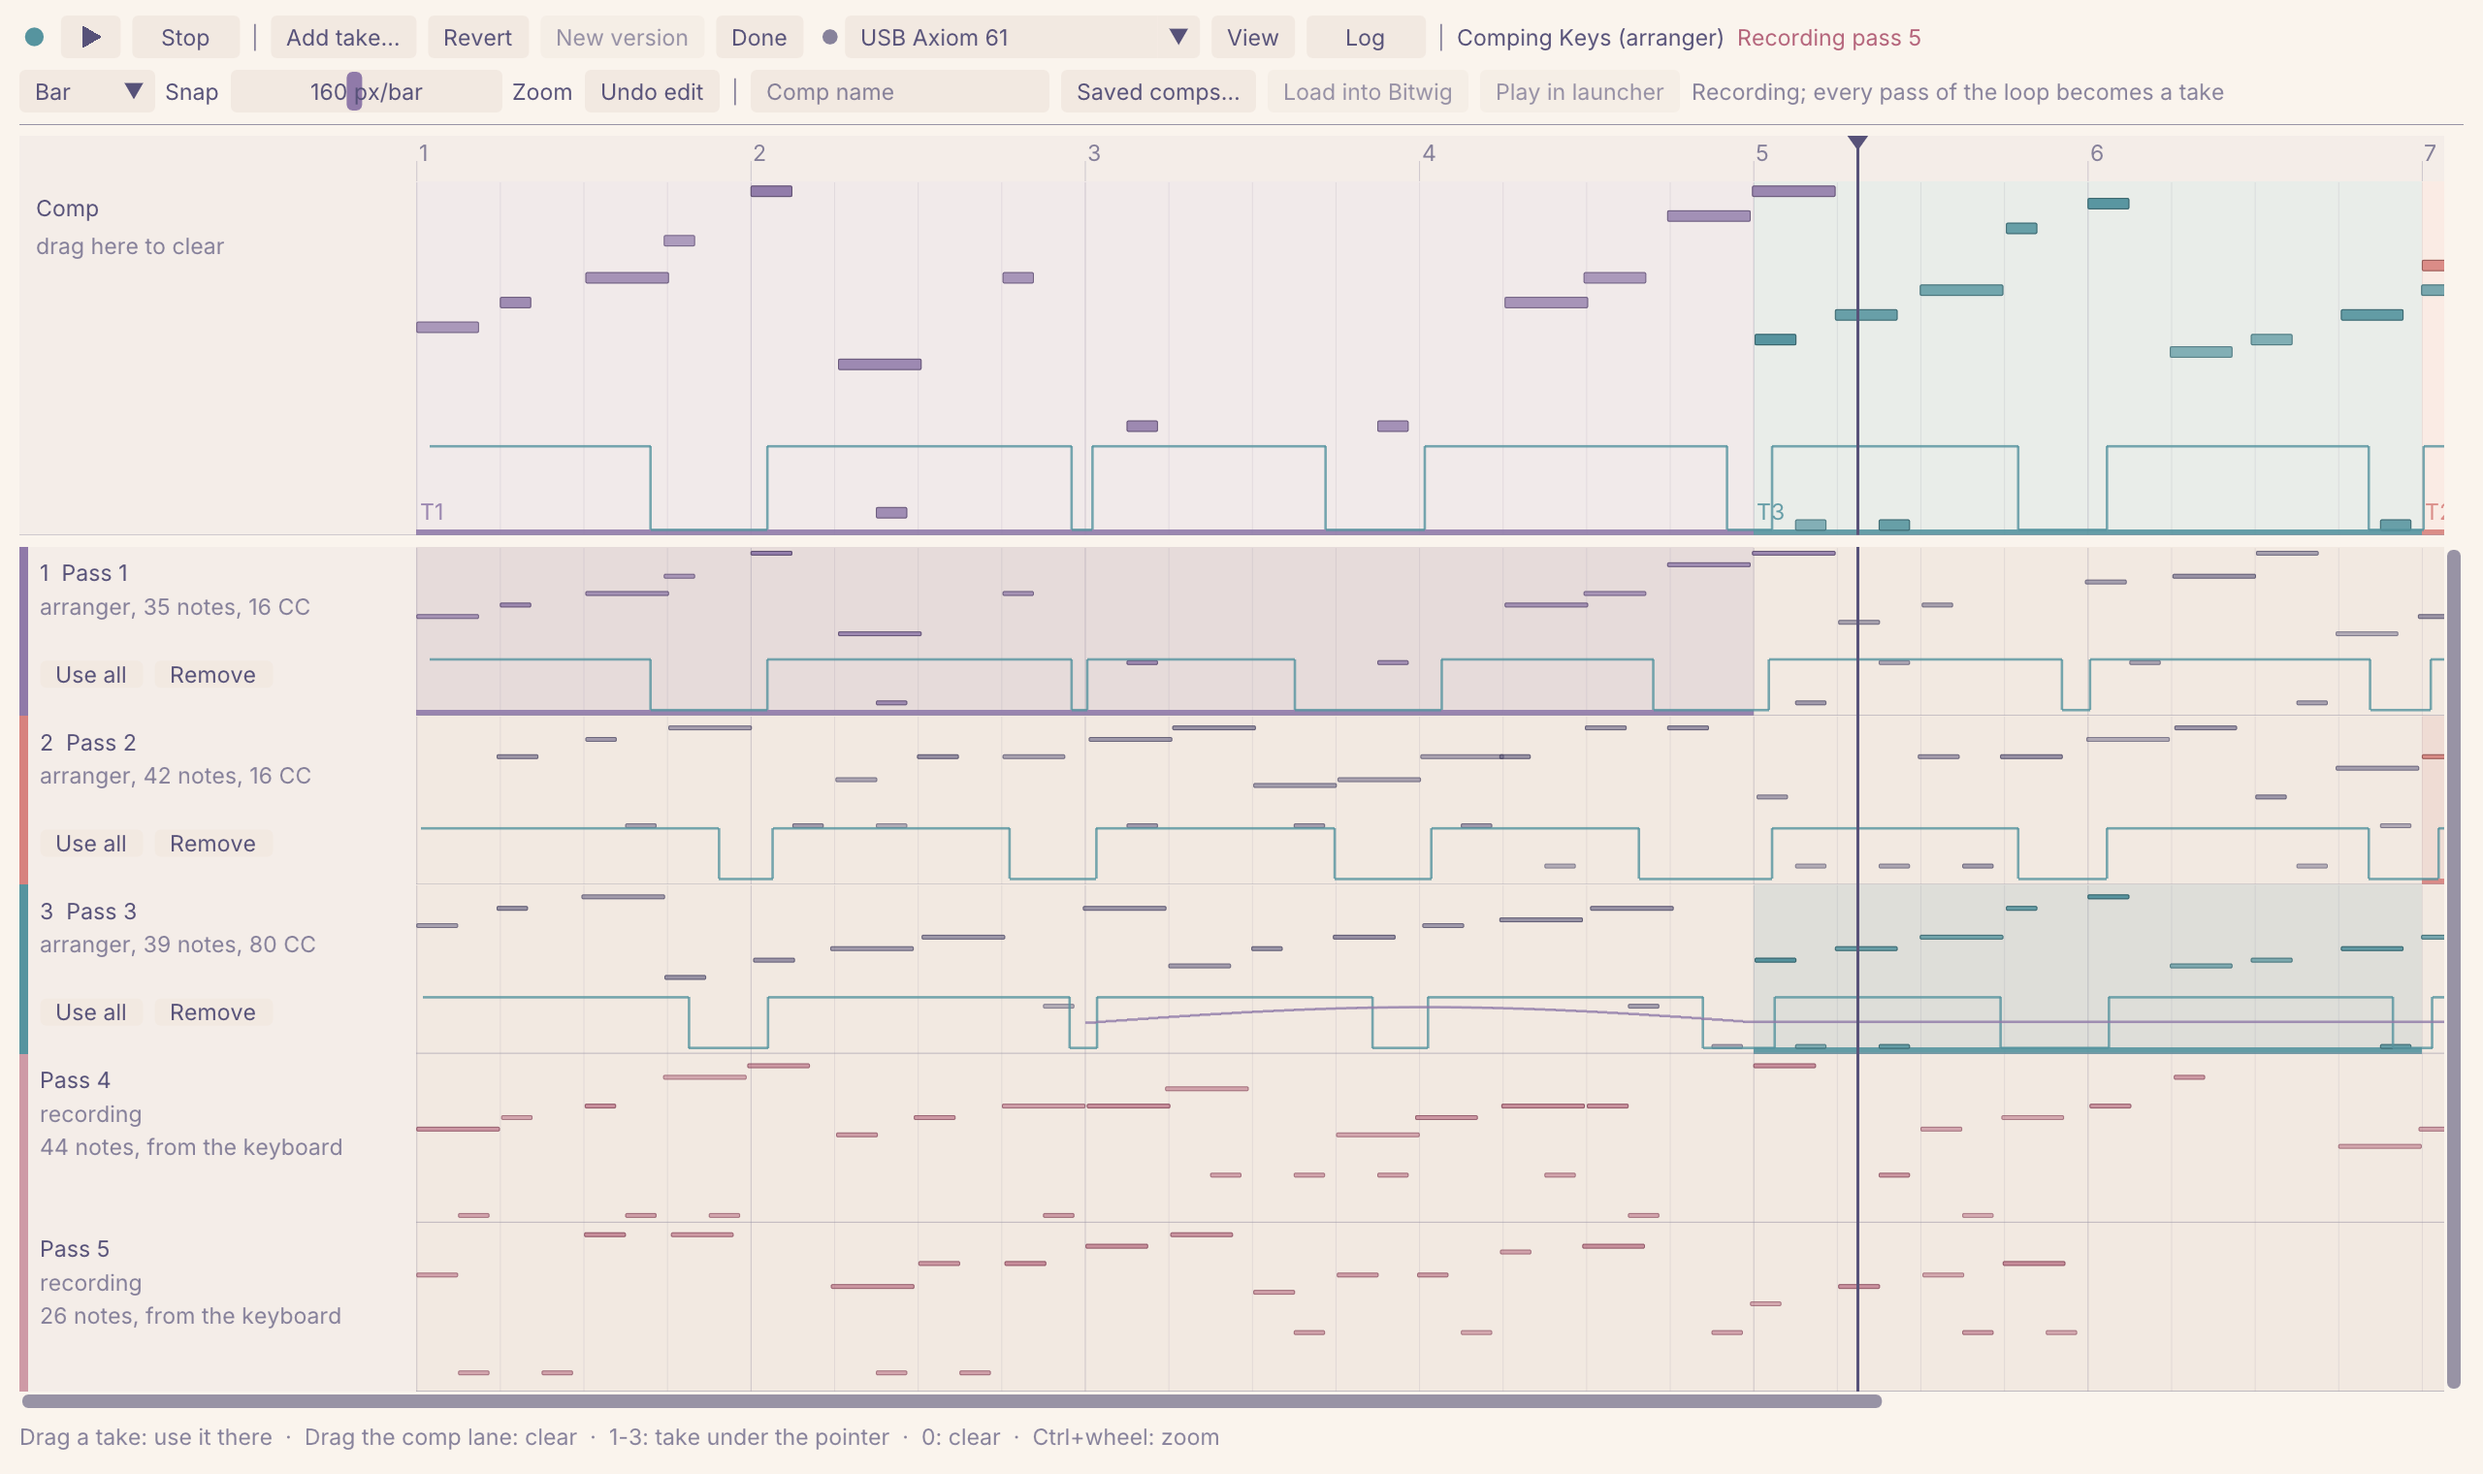
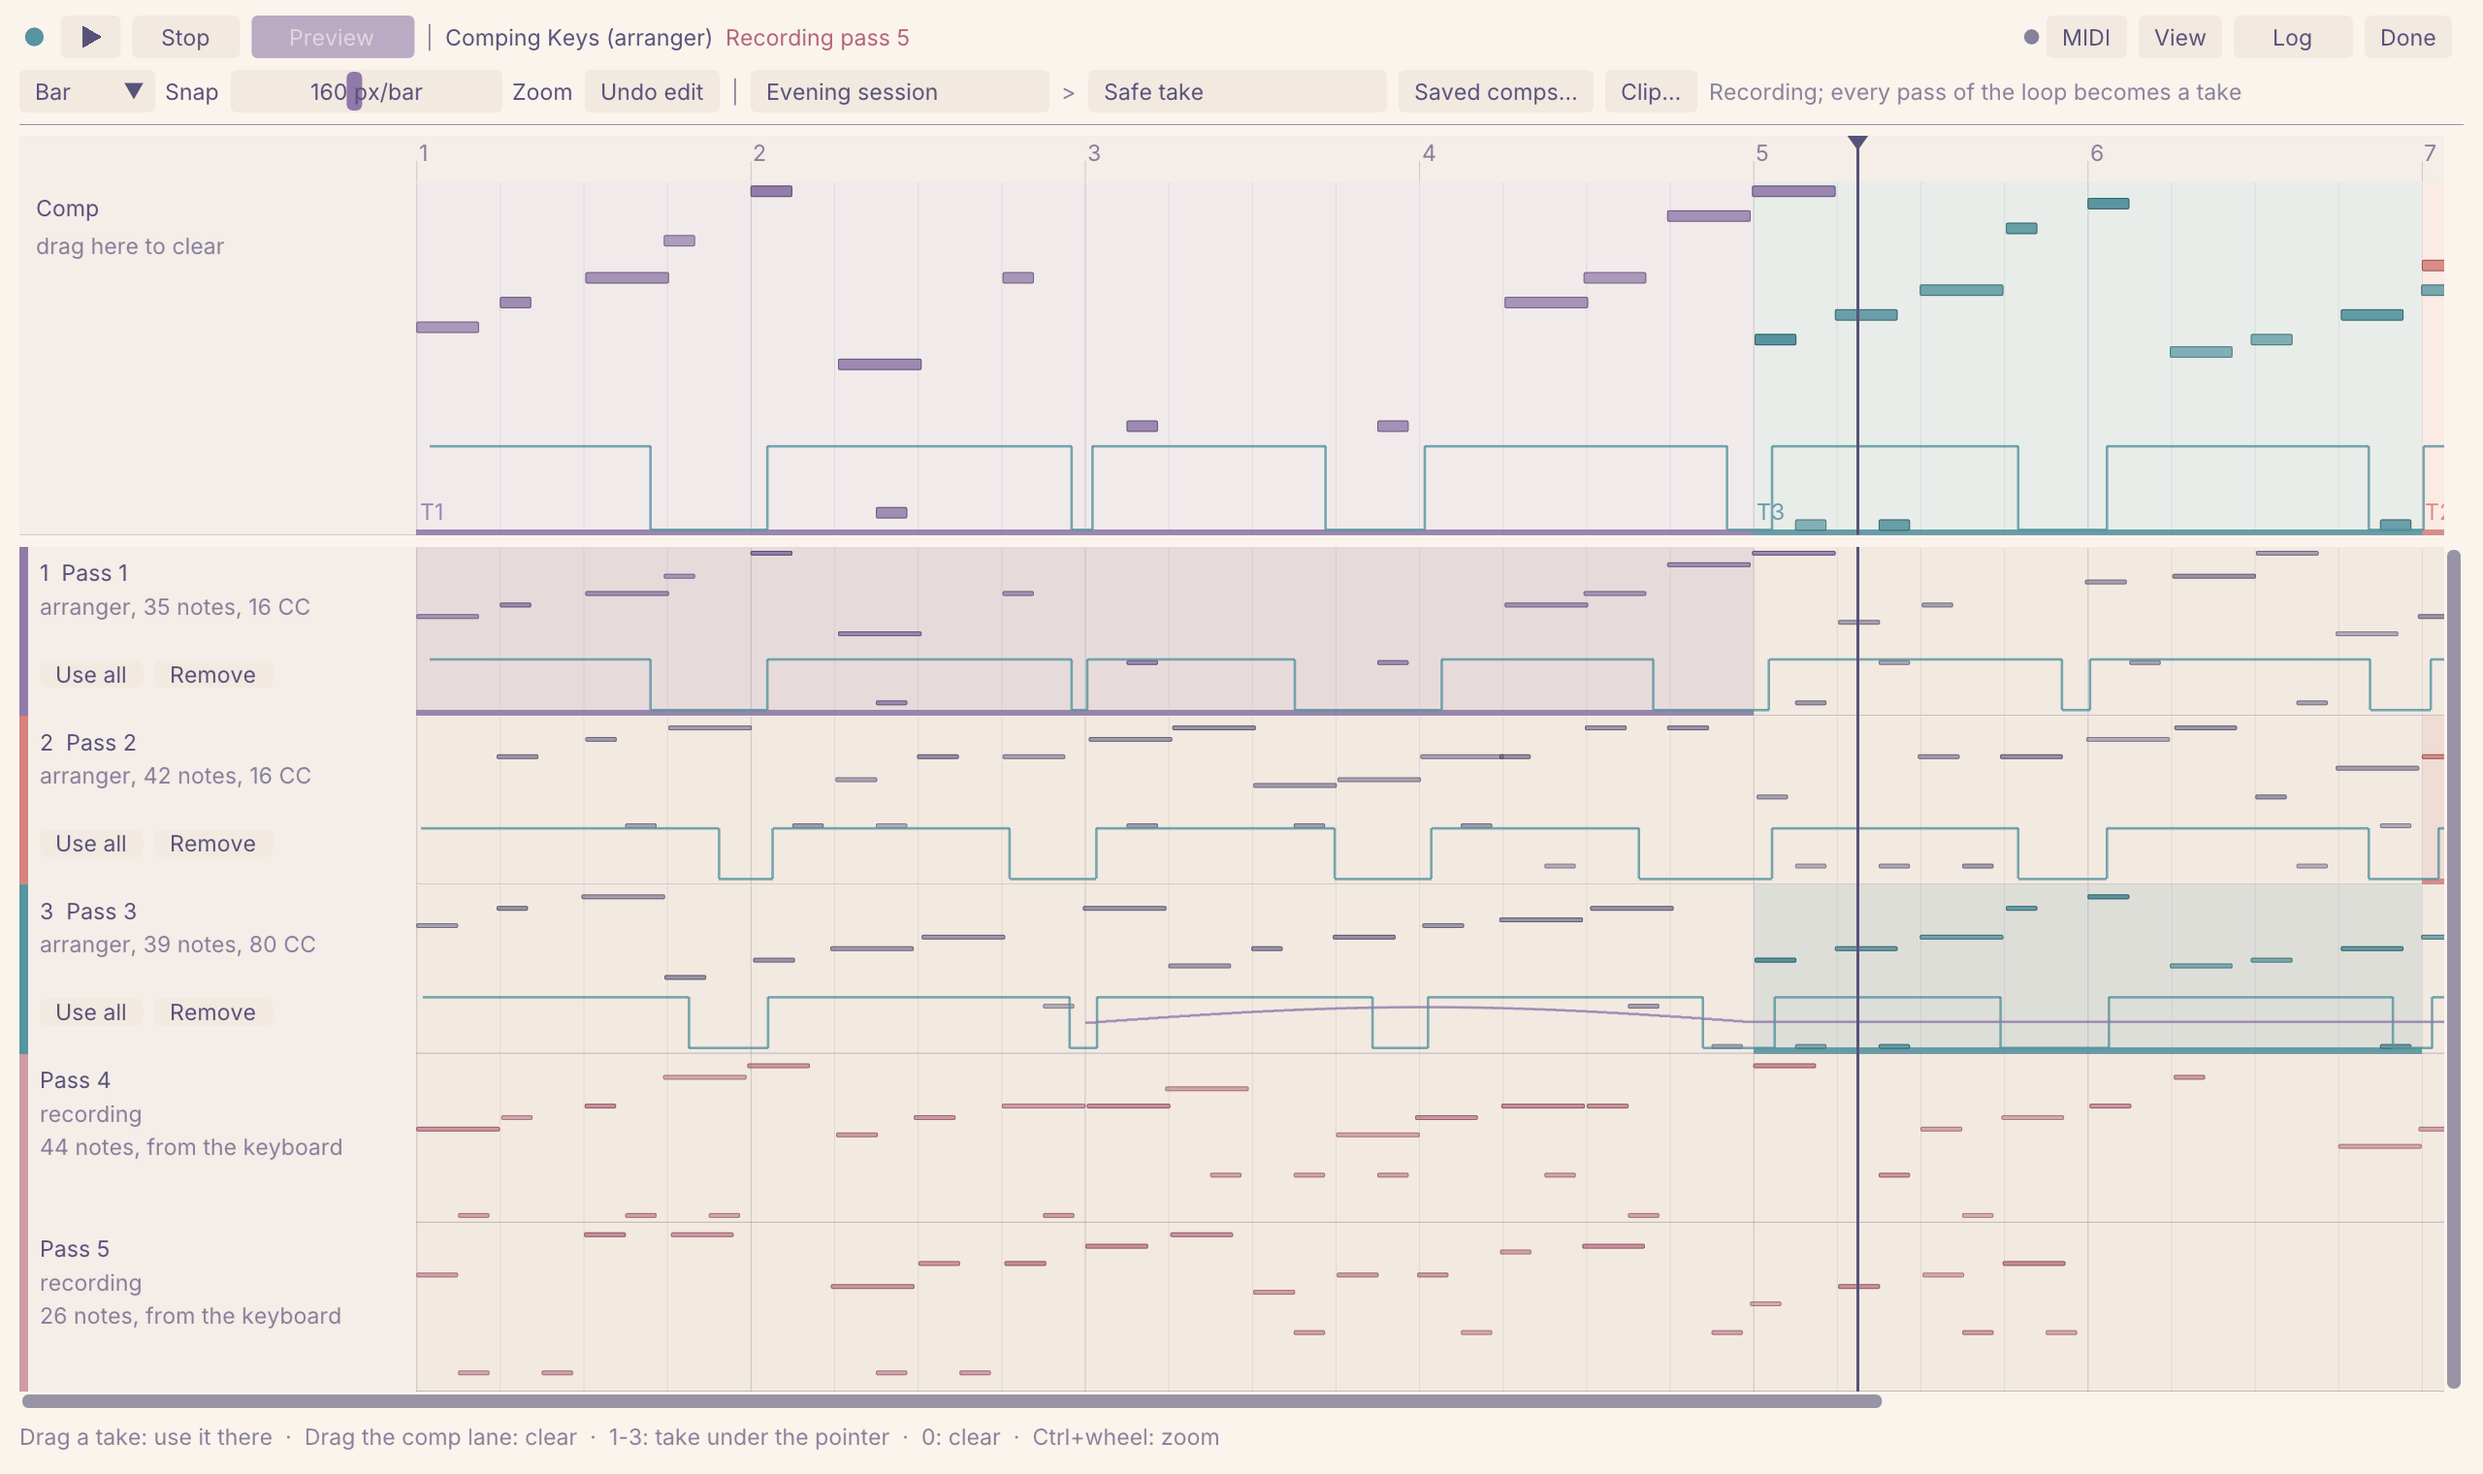
Update screenshots for the new toolbar
- Regenerate all screenshots: two-row toolbar with Preview, MIDI and the
  Clip menu, recording and comp name fields, the current comp marked in
  the saved-comps list.
- --demo-session ID (screenshots): treat a saved comp as the current
  one, with its name.
- Record hint: takes from elsewhere are added from the Clip menu.

diff --git a/companion/src/main.cpp b/companion/src/main.cpp
@@ -84,6 +84,7 @@ struct Options {
     std::string demoKeyboard;
     std::optional<float> scale;
     bool openSavedComps = false;
+    std::string demoSession;
 };
 
 void printUsage() {
@@ -98,6 +99,8 @@ void printUsage() {
         "  --demo-keyboard NAME  show NAME as the keyboard without opening MIDI (screenshots)\n"
         "  --scale FACTOR     UI scale on top of the display's, instead of the saved setting\n"
         "  --open-saved-comps open the list of saved comps (screenshots)\n"
+        "  --demo-session ID  treat the saved comp of session ID as the current one "
+        "(screenshots)\n"
         "\n"
         "Environment: MIDICOMP_FONT=path/to/font.ttf overrides the UI font.");
 }
@@ -119,6 +122,8 @@ std::optional<Options> parseArgs(const int argc, char** argv) {
             options.demoKeyboard = argv[++i];
         } else if (arg == "--open-saved-comps") {
             options.openSavedComps = true;
+        } else if (arg == "--demo-session" && hasValue) {
+            options.demoSession = argv[++i];
         } else if (arg == "--scale" && hasValue) {
             const float value = std::strtof(argv[++i], nullptr);
             if (!(value >= 0.5f && value <= 4.0f)) {
@@ -295,6 +300,7 @@ int main(int argc, char** argv) {
     view.setStore(&store);
     // Rendered screenshots should not depend on the connected devices.
     std::unique_ptr<midicomp::MidiInput> midi;
+    view.setDemoSession(options->demoSession);
     if (!options->demoKeyboard.empty()) {
         view.setDemoKeyboard(options->demoKeyboard);
     } else if (!options->screenshot) {

diff --git a/companion/src/comp_view.cpp b/companion/src/comp_view.cpp
@@ -826,7 +826,7 @@ void CompView::drawRecordHint(const State& state) {
                             "a take.") +
              4.0f * scale;
         y += centered(y, fontSize, palette_.mutedText,
-                      "Takes recorded elsewhere can be added with \"Add take\".") +
+                      "Takes recorded elsewhere can be added from the Clip menu.") +
              4.0f * scale;
         if (midi_ != nullptr && midi_->portName().empty())
             y += centered(y, fontSize, palette_.warning,
@@ -1583,12 +1583,17 @@ void CompView::updateStore(ApiClient& client, const State* state) {
     const std::string key = state->project + "\n" + state->session->label;
     if (key != sessionKey_) {
         sessionKey_ = key;
-        sessionId_ = sessionStamp();
+        sessionId_ = demoSession_.empty() ? sessionStamp() : demoSession_;
         savedVersion_ = -1;
         lastVersion_ = -1;
         restoreClip_ = state->session->label;
         compName_.clear();
         nameBuffer_.fill('\0');
+        if (const SavedComp* current = currentSave(); current != nullptr) {
+            // Screenshots: continue a saved comp, with its name.
+            compName_ = current->name;
+            compName_.copy(nameBuffer_.data(), nameBuffer_.size() - 1);
+        }
         restoreOffer_ = versionRequested_.exchange(false)
                             ? std::nullopt
                             : store_->offerFor(state->project, state->session->label,

diff --git a/companion/src/comp_view.hpp b/companion/src/comp_view.hpp
@@ -70,6 +70,15 @@ class CompView {
     void setDemoKeyboard(std::string name) { demoKeyboard_ = std::move(name); }
 
     /**
+     * Uses a saved comp's session identifier for the current session, so that saved comp shows
+     * as the current one, for screenshots.
+     *
+     * Args:
+     *     id: the session identifier, or empty for a new one per session.
+     */
+    void setDemoSession(std::string id) { demoSession_ = std::move(id); }
+
+    /**
      * Enables previews: the player plays the comp as live MIDI while the extension reports a
      * preview.
      *
@@ -255,6 +264,7 @@ class CompView {
     // Keyboard input.
     MidiInput* midi_ = nullptr;
     std::string demoKeyboard_;
+    std::string demoSession_;
     PreviewPlayer* previewPlayer_ = nullptr;
     long long previewVersion_ = -1;  ///< State version the player's comp comes from.
     Settings* settings_ = nullptr;

diff --git a/README.md b/README.md
@@ -331,6 +331,7 @@ python3 tools/midi_copies.py run          # keep it running, e.g. as a systemd u
 - `--demo-keyboard NAME`: show `NAME` in the keyboard picker without opening MIDI (screenshots).
 - `--scale FACTOR`: UI scale on top of the display's scale, for this run (0.5 to 4).
 - `--open-saved-comps`: open the list of saved comps (screenshots).
+- `--demo-session ID`: treat the saved comp of session `ID` as the current one (screenshots).
 - `MIDICOMP_FONT=/path/to/font.ttf`: UI font. Release builds embed Roboto; the Nix build uses Inter.
 
 The UI follows the display's scale (also when the window moves to another display). *View* in
@@ -389,8 +390,12 @@ env -u WAYLAND_DISPLAY LIBGL_ALWAYS_SOFTWARE=1 xvfb-run -a -s "-screen 0 2560x15
 ```
 
 For `comps.png`, write sample saved comps with `python3 tools/mock_store.py DIR`, pass
-`--store-dir DIR --open-saved-comps`, and crop to the popup (1720x760 at 420,385). Screenshots
-ignore the mouse, so no hover effects show.
+`--store-dir DIR --open-saved-comps --demo-session a3` (so "Safe take" is the current comp), and
+crop to the popup (1720x760 at 420,385). The session screenshots (`session-*`, `recording`,
+`select`) use a store with only `DIR/Demo_song__Keys__arranger___a3.json` and
+`DIR/recordings.json`, also with `--demo-session a3`, so the toolbar shows the recording and
+comp names without a restore banner; `start` and `record` use an empty store. Screenshots ignore
+the mouse, so no hover effects show.
 
 GLFW prefers Wayland when `WAYLAND_DISPLAY` is set, so without unsetting it the window opens on
 the desktop instead of Xvfb. Pass `--theme-dir` with an empty directory for stock colors; the
